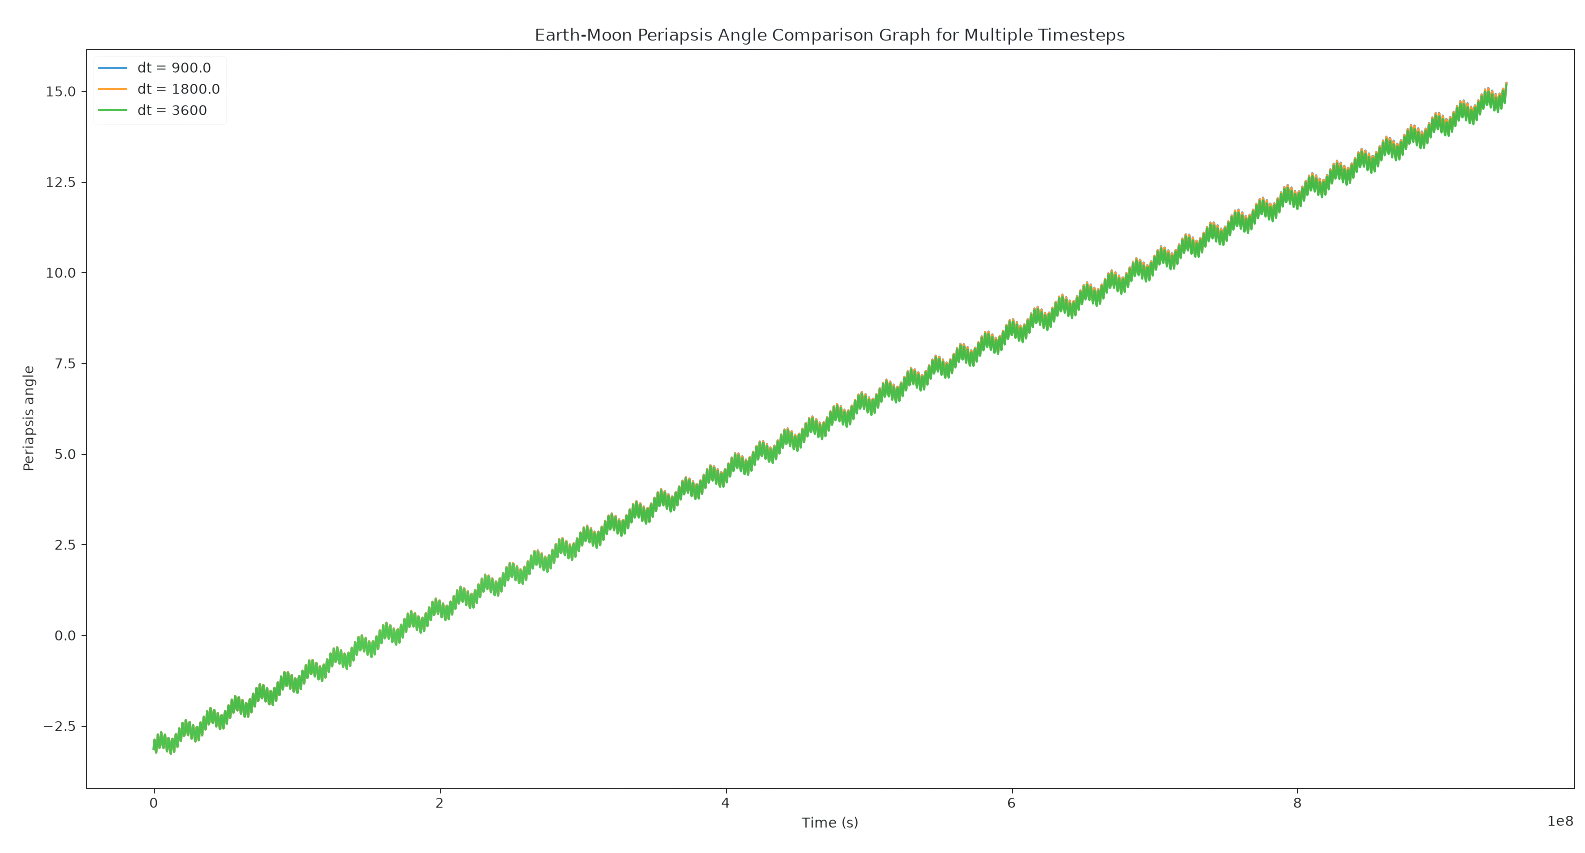
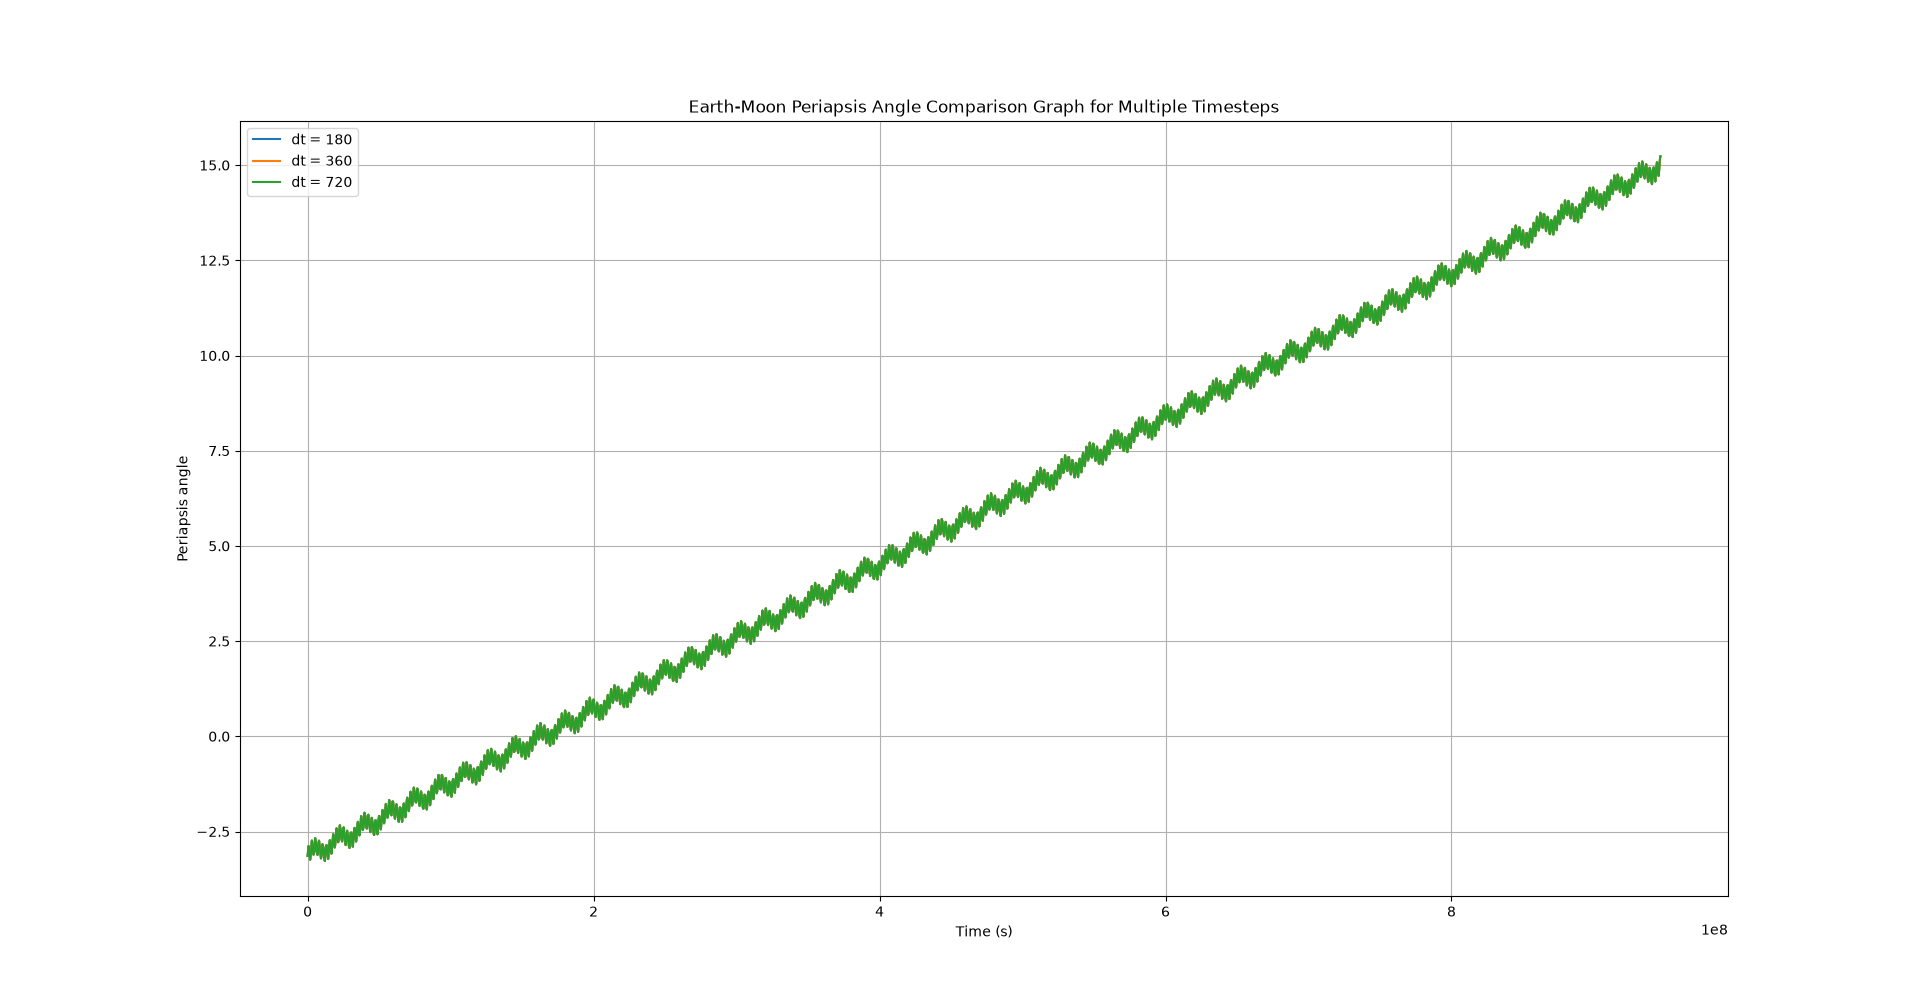
Add periodical simulation step tracking

diff --git a/integrators.py b/integrators.py
@@ -1,3 +1,4 @@
+from types import NoneType
 from typing import Callable
 from state import *
 
@@ -22,8 +23,9 @@ def system_forward_euler_step(
     system: SystemState,
     dt: float,
     accelerations_model: Callable[[SystemState], tuple[Vector2, ...]],
-    acceleration_args: list
-) -> SystemState:
+    acceleration_args: list,
+    cache: NoneType = None
+) -> tuple[SystemState, None]:
     """Perform a single time step on a system using the Forward Euler method."""
     
     accelerations = accelerations_model(system, *acceleration_args)
@@ -42,7 +44,7 @@ def system_forward_euler_step(
     return SystemState(
         body_states = tuple(body_states),
         time = (system.time + dt)
-    )
+    ), None
         
     
 def semi_implicit_euler_step(
@@ -66,8 +68,9 @@ def system_semi_implicit_euler_step(
     system: SystemState,
     dt: float,
     accelerations_model: Callable[[SystemState], tuple[Vector2, ...]],
-    acceleration_args: list
-) -> SystemState:
+    acceleration_args: list,
+    cache: NoneType = None
+) -> tuple[SystemState, None]:
     """Perform a single time step on a system using the Semi-Implicit Euler method."""
     
     accelerations = accelerations_model(system, *acceleration_args)
@@ -86,7 +89,7 @@ def system_semi_implicit_euler_step(
     return SystemState(
         body_states = tuple(body_states),
         time = (system.time + dt)
-    )
+    ), None
     
 def velocity_verlet_step(
     state: BodyState,
@@ -111,7 +114,7 @@ def system_velocity_verlet_step(
     accelerations_model: Callable[[SystemState], tuple[Vector2, ...]],
     acceleration_args: list,
     cache: tuple[Vector2, ...] = None
-) -> SystemState:
+) -> tuple[SystemState, tuple[Vector2, ...]]:
     """Perform a single time step on a system using the Velocity Verlet method."""
     
     if cache:

diff --git a/simulation.py b/simulation.py
@@ -1,6 +1,8 @@
+from tracemalloc import start
 from typing import Any, Callable
 from state import *
-from math import e, inf
+from math import floor, inf
+from time import time
 
 def simulate(
     initial_state: BodyState,
@@ -54,6 +56,9 @@ def simulate_system(
         else:
             return None
     cache = None
+    if display_status:
+        next_display = 1
+        start_time = time()
     for i in range(steps):
         next_system, cache = system_integration_step(current_system, dt, accelerations_model, acceleration_args, cache)
         if collisions_check:
@@ -76,9 +81,12 @@ def simulate_system(
         if return_history:
             systems.append(current_system)
         if display_status:
-            print(f"\rSimulation step: {i}/{steps}...", end="", flush=True)
+            percentage = floor(((i + 1) / steps) * 100)
+            if percentage >= next_display:
+                next_display = percentage + 1
+                print(f"\rSimulation step: {(i + 1)}/{steps}, estimated time left: {round(((time() - start_time) / (i + 1)) * (steps - (i + 1)))}s", end="")
     if display_status:
-        print(f"\rSimulation step: {steps}/{steps}...", end="", flush=True)
+        print(f"\rSimulation step: {steps}/{steps}", end="")
         print("\nSimulation done.")
     if return_history:
         return systems

diff --git a/tests/test_integrators.py b/tests/test_integrators.py
@@ -33,10 +33,10 @@ class TestIntegrators(unittest.TestCase):
         )
         dt = 1
         acceleration = [Vector2((10 ** 4), (10 ** 2))]
-        forward_system = system_forward_euler_step(system, dt, self.system_force_acceleration, [acceleration])
+        forward_system, _ = system_forward_euler_step(system, dt, self.system_force_acceleration, [acceleration])
         forward_velocity = forward_system.body_states[0].velocity
         forward_position = forward_system.body_states[0].position
-        semi_implicit_system = system_semi_implicit_euler_step(system, dt, self.system_force_acceleration, [acceleration])
+        semi_implicit_system, _ = system_semi_implicit_euler_step(system, dt, self.system_force_acceleration, [acceleration])
         semi_implicit_velocity = semi_implicit_system.body_states[0].velocity
         semi_implicit_position = semi_implicit_system.body_states[0].position
         velocity_verlet_system, _ = system_velocity_verlet_step(system, dt, self.system_force_acceleration, [acceleration])

diff --git a/scenarios.py b/scenarios.py
@@ -319,7 +319,7 @@ def run_convergence_example():
         ]
     ]
     for test_set in test_sets:
-        history = simulate_system(solar_system, test_set[0], int(total_time / test_set[0]), system_velocity_verlet_step, system_gravitational_accelerations, [], None, None, True)
+        history = simulate_system(solar_system, test_set[0], int(total_time / test_set[0]), system_velocity_verlet_step, system_gravitational_accelerations, [], None, None, False)
         initial_state = history[0]
         final_state = history[-1]
         history_ap = unwrap_periapsis_angle(pair_diagnostics_history(history, pair, pair_periapsis_angle))

diff --git a/gravity.py b/gravity.py
@@ -31,6 +31,8 @@ def system_gravitational_accelerations(
             dx = body_j.position.x - xi
             dy = body_j.position.y - yi
             r2 = dx * dx + dy * dy
+            if r2 == 0:
+                raise ValueError("2 Bodies are located at the same coordinates. Gravitational acceleration is undefined.")
             inverted_r3 = 1.0 / (r2 * sqrt(r2))
             scale = GRAVITATIONAL_CONSTANT * inverted_r3
             gx = dx * scale

diff --git a/README.md b/README.md
@@ -49,7 +49,7 @@ Results show Velocity Verlet reaches a drift of `0.0000273%` at `Δt=30` over th
 ![Hohmann transfer ellipse from 7,000,000m to a 10,000,000m orbit](scenario_plots/maneuver_example_2.png)
 Trajectory plot of an impulsive prograde burn, specifically a Hohmann transfer ellipse, raising apoapsis to 10,000,000 meters from 7,000,000 meters.
 ### Precession convergence
-Note: Using Earth and the Moon as the target pair in a solar system running for 30 years with Δt=15, 30 and 60 minutes. Keep in mind that the Δt in `scenarios.py` are increased to 3, 6 and 12 hours for running performance.
+Note: Using Earth and the Moon as the target pair in a solar system running for 30 years with Δt=3, 6 and 12 minutes. Keep in mind that the Δt in `scenarios.py` are increased to 3, 6 and 12 hours for running performance.
 ![Earth-Moon precession convergence and conservation table](scenario_plots/convergence_example_1.png)
 Results show that as smaller Δt are used in simulating, the measured convergence order will eventually converge to 2.
 ![Earth-Moon periapsis angle comparison for multiple timesteps](scenario_plots/convergence_example_2.png)
@@ -74,8 +74,9 @@ Below will be a table of changes made to optimise the code and its effect on the
 | `slots=True` in `state.py` | 2,255.80 | +2.43% | 1.02x |
 | Velocity verlet acceleration handover in `integrators.py` | 3,846.71 | +70.53% | 1.75x |
 | System gravitational acceleration calculation refactor in `gravity.py` | 5,021.45 | +30.54% | 2.28x |
-| Scalarise gravitational acceleration calculation in `gravity.py` | 11,016.55 | +119.39% | 4.00x
-| System collision check refactor in `collision.py` | 14,827.21 | +34.59% | 5.73x
+| Scalarise gravitational acceleration calculation in `gravity.py` | 11,016.55 | +119.39% | 5.00x
+| System collision check refactor in `collision.py` | 14,827.21 | +34.59% | 6.73x
+| Python version update from 3.14 to 3.15 | 18,255.11 | +23.12% | 8.29x
 ## Project structure
 | Module | Purpose(s) |
 | :--- | :--- |
